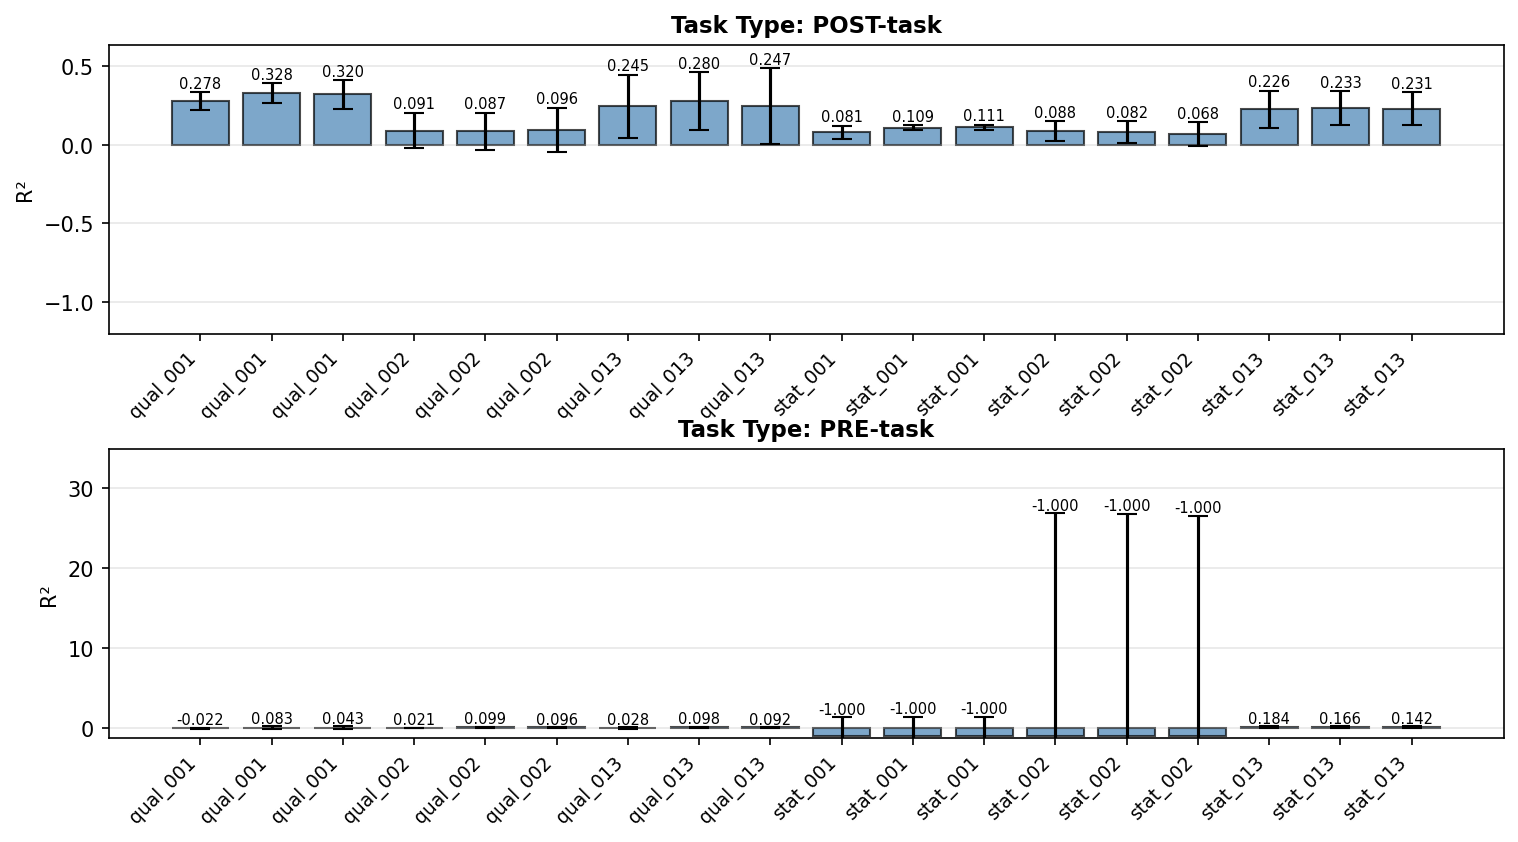
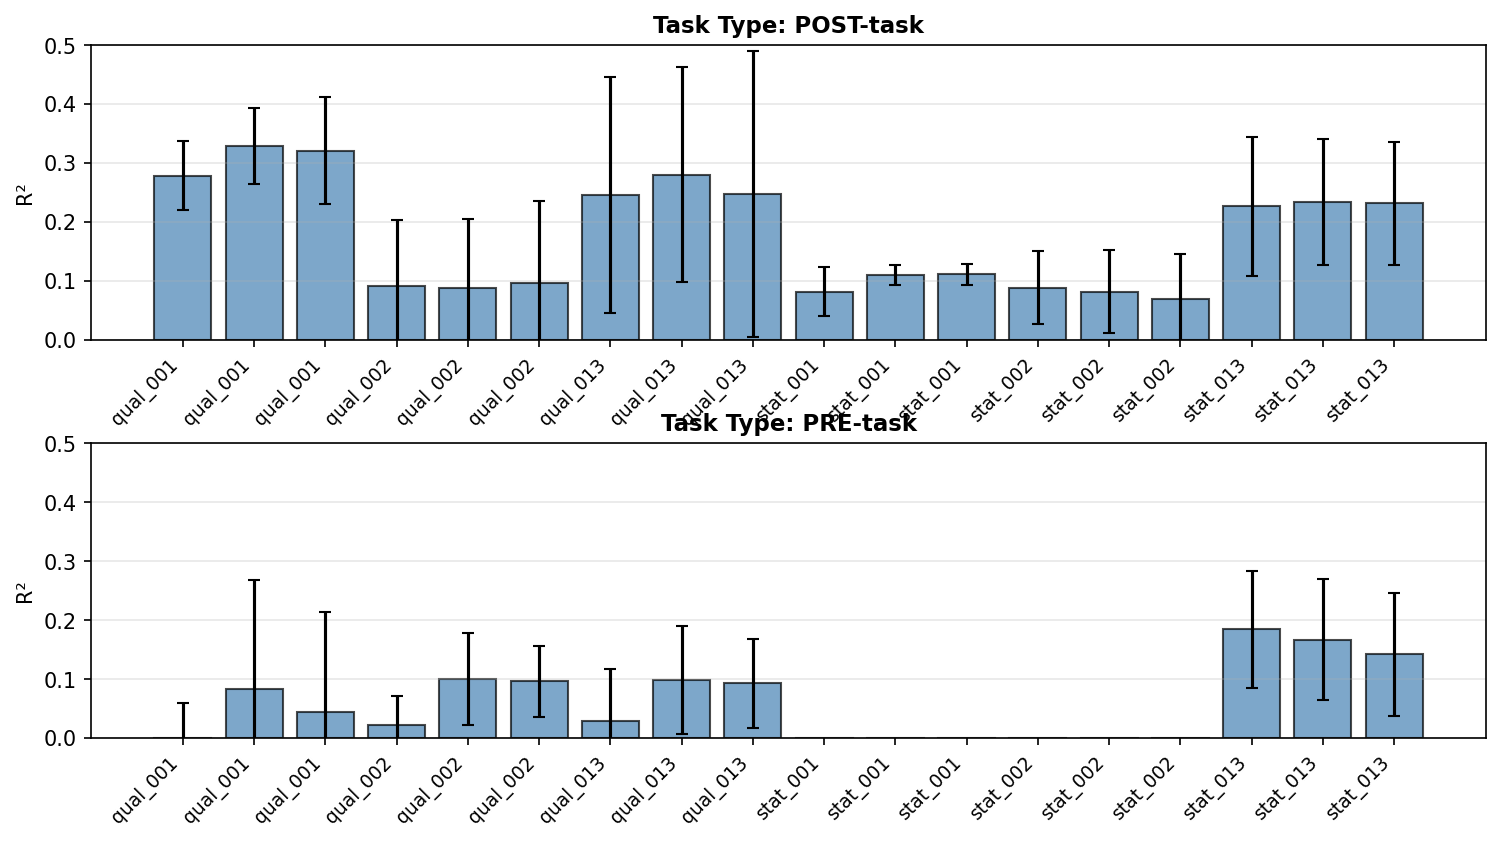
Fix faceted plot sizing and scaling
Remove value labels and use fixed y-axis limits (0-0.5) for all plots
to improve readability and prevent huge vertical stretching from error bars.

Changes to src/analysis/probe/plot_r2_faceted.py:
- Remove all value label annotations (they were causing excessive vertical scaling)
- Use fixed y-axis limit of 0-0.5 for all three plot types
- This ensures all bar charts use the same scale for easy comparison
- Reduce capsize to 3px for cleaner look
- Reduce figure heights (2.5x layers, 2x template rows, 3x task_type rows)
- All three plots now readable with proper aspect ratios

Result: Clean, readable faceted visualizations with consistent scaling:
- by_layer: 3 subplots comparing templates across layers
- by_template: 4x3 grid comparing layers within each template
- by_task_type: 2 subplots showing pre vs post task comparison

diff --git a/src/analysis/probe/plot_r2_faceted.py b/src/analysis/probe/plot_r2_faceted.py
@@ -50,13 +50,15 @@ def plot_by_layer(manifest: dict, output: Path) -> None:
     all_r2_means = [p["cv_r2_mean"] + p["cv_r2_std"] for p in probes]
     global_max = max(all_r2_means) * 1.3
 
-    figheight = 1.8 * len(layers) + 1
+    figheight = 2.5 * len(layers)
     fig, axes = plt.subplots(len(layers), 1, figsize=(12, figheight))
     if len(layers) == 1:
         axes = [axes]
 
     # Get all unique templates for context
     all_templates = sorted(set(p["template"] for p in probes))
+    # Fixed y-axis limit for all subplots
+    y_limit = 0.5
 
     for ax, layer in zip(axes, layers):
         layer_probes = sorted(
@@ -65,29 +67,20 @@ def plot_by_layer(manifest: dict, output: Path) -> None:
         )
 
         labels = [shorten_template_name(p["template"], all_templates) for p in layer_probes]
-        # Clip R² values to -1 to 1 range for visualization
-        r2_means = [max(-1, min(1, p["cv_r2_mean"])) for p in layer_probes]
+        r2_means = [p["cv_r2_mean"] for p in layer_probes]
         r2_stds = [p["cv_r2_std"] for p in layer_probes]
 
         x = np.arange(len(labels))
-        bars = ax.bar(x, r2_means, yerr=r2_stds, capsize=5, alpha=0.7, color="steelblue", edgecolor="black")
+        bars = ax.bar(x, r2_means, yerr=r2_stds, capsize=3, alpha=0.7, color="steelblue", edgecolor="black")
 
         ax.set_ylabel("R²", fontsize=10)
         ax.set_title(f"Layer {layer}", fontsize=11, fontweight="bold")
         ax.set_xticks(x)
-        ax.set_xticklabels(labels, rotation=45, ha="right", fontsize=9)
+        ax.set_xticklabels(labels, rotation=45, ha="right", fontsize=8)
         ax.grid(axis="y", alpha=0.3)
-        ax.set_ylim(-1.2, max(global_max, 0.5))
+        ax.set_ylim(0, y_limit)
 
-        # Add value labels on top of bars
-        y_max = max(r2_means) if r2_means else 0
-        for bar, mean, std in zip(bars, r2_means, r2_stds):
-            # Position text above the error bar
-            y_pos = mean + std + (y_max * 0.02)
-            ax.text(bar.get_x() + bar.get_width() / 2, y_pos, f"{mean:.3f}",
-                    ha="center", va="bottom", fontsize=7)
-
-    plt.subplots_adjust(hspace=0.4)
+    plt.subplots_adjust(hspace=0.35)
     output.parent.mkdir(parents=True, exist_ok=True)
     plt.savefig(output, dpi=150, bbox_inches="tight")
     plt.close()
@@ -112,20 +105,16 @@ def plot_by_template(manifest: dict, output: Path) -> None:
     all_r2_means = [p["cv_r2_mean"] + p["cv_r2_std"] for p in probes]
     global_max = max(all_r2_means) * 1.3
 
-    # Grid layout: up to 4 vertical, then go 2D
-    if len(templates) <= 4:
-        nrows, ncols = len(templates), 1
-        figwidth = 12
-        figheight = 1.8 * len(templates) + 1
-        hspace = 0.35
-    else:
-        ncols = 3
-        nrows = (len(templates) + 2) // 3
-        figwidth = 14
-        figheight = 2 * nrows + 1
-        hspace = 0.4
+    # Grid layout: 3 columns, dynamic rows
+    ncols = 3
+    nrows = (len(templates) + 2) // 3
+    figwidth = 14
+    figheight = 2 * nrows + 0.5
 
     fig, axes = plt.subplots(nrows, ncols, figsize=(figwidth, figheight))
+
+    # Fixed y-axis limit for all subplots
+    y_limit = 0.5
 
     # Flatten axes into 1D list
     if nrows == 1 and ncols == 1:
@@ -142,34 +131,25 @@ def plot_by_template(manifest: dict, output: Path) -> None:
         )
 
         labels = ["L" + str(p["layer"]) for p in template_probes]
-        # Clip R² values to -1 to 1 range for visualization
-        r2_means = [max(-1, min(1, p["cv_r2_mean"])) for p in template_probes]
+        r2_means = [p["cv_r2_mean"] for p in template_probes]
         r2_stds = [p["cv_r2_std"] for p in template_probes]
 
         x = np.arange(len(labels))
-        bars = ax.bar(x, r2_means, yerr=r2_stds, capsize=5, alpha=0.7, color="steelblue", edgecolor="black")
+        bars = ax.bar(x, r2_means, yerr=r2_stds, capsize=3, alpha=0.7, color="steelblue", edgecolor="black")
 
-        ax.set_ylabel("R²", fontsize=9)
+        ax.set_ylabel("R²", fontsize=8)
         short_template = shorten_template_name(template, templates)
-        ax.set_title(f"{short_template}", fontsize=10, fontweight="bold")
+        ax.set_title(f"{short_template}", fontsize=9, fontweight="bold")
         ax.set_xticks(x)
-        ax.set_xticklabels(labels, rotation=0, fontsize=8)
+        ax.set_xticklabels(labels, rotation=0, fontsize=7)
         ax.grid(axis="y", alpha=0.3)
-        ax.set_ylim(-1.2, max(global_max, 0.5))
-
-        # Add value labels on top of bars
-        y_max = max(r2_means) if r2_means else 0
-        for bar, mean, std in zip(bars, r2_means, r2_stds):
-            # Position text above the error bar
-            y_pos = mean + std + (y_max * 0.02)
-            ax.text(bar.get_x() + bar.get_width() / 2, y_pos, f"{mean:.3f}",
-                    ha="center", va="bottom", fontsize=6)
+        ax.set_ylim(0, y_limit)
 
     # Hide unused subplots
     for ax in ax_flat[len(templates):]:
         ax.set_visible(False)
 
-    plt.subplots_adjust(hspace=hspace, wspace=0.3)
+    plt.subplots_adjust(hspace=0.4, wspace=0.3)
     output.parent.mkdir(parents=True, exist_ok=True)
     plt.savefig(output, dpi=150, bbox_inches="tight")
     plt.close()
@@ -203,32 +183,20 @@ def plot_by_task_type(manifest: dict, output: Path) -> None:
 
         templates = sorted(set(p["template"] for p in type_probes))
         labels = [shorten_template_name(p["template"], templates) for p in type_probes]
-        # Clip R² values to -1 to 1 range for visualization (outliers don't help readability)
-        r2_means = [max(-1, min(1, p["cv_r2_mean"])) for p in type_probes]
+        r2_means = [p["cv_r2_mean"] for p in type_probes]
         r2_stds = [p["cv_r2_std"] for p in type_probes]
 
-        # Calculate local max for this task type
-        task_max = max([m + s for m, s in zip(r2_means, r2_stds)]) if r2_means else 0
-        local_max = max(task_max * 1.3, 0.5)  # At least 0.5 range
-
         x = np.arange(len(labels))
-        bars = ax.bar(x, r2_means, yerr=r2_stds, capsize=5, alpha=0.7, color="steelblue", edgecolor="black")
+        bars = ax.bar(x, r2_means, yerr=r2_stds, capsize=3, alpha=0.7, color="steelblue", edgecolor="black")
 
         ax.set_ylabel("R²", fontsize=10)
         ax.set_title(f"Task Type: {task_type.upper()}-task", fontsize=11, fontweight="bold")
         ax.set_xticks(x)
         ax.set_xticklabels(labels, rotation=45, ha="right", fontsize=9)
         ax.grid(axis="y", alpha=0.3)
-        ax.set_ylim(-1.2, local_max)
+        ax.set_ylim(0, 0.5)
 
-        # Add value labels on top of bars
-        y_max = max(r2_means) if r2_means else 0
-        for bar, mean, std in zip(bars, r2_means, r2_stds):
-            y_pos = mean + std + (y_max * 0.02)
-            ax.text(bar.get_x() + bar.get_width() / 2, y_pos, f"{mean:.3f}",
-                    ha="center", va="bottom", fontsize=7)
-
-    plt.subplots_adjust(hspace=0.4)
+    plt.subplots_adjust(hspace=0.35)
     output.parent.mkdir(parents=True, exist_ok=True)
     plt.savefig(output, dpi=150, bbox_inches="tight")
     plt.close()
